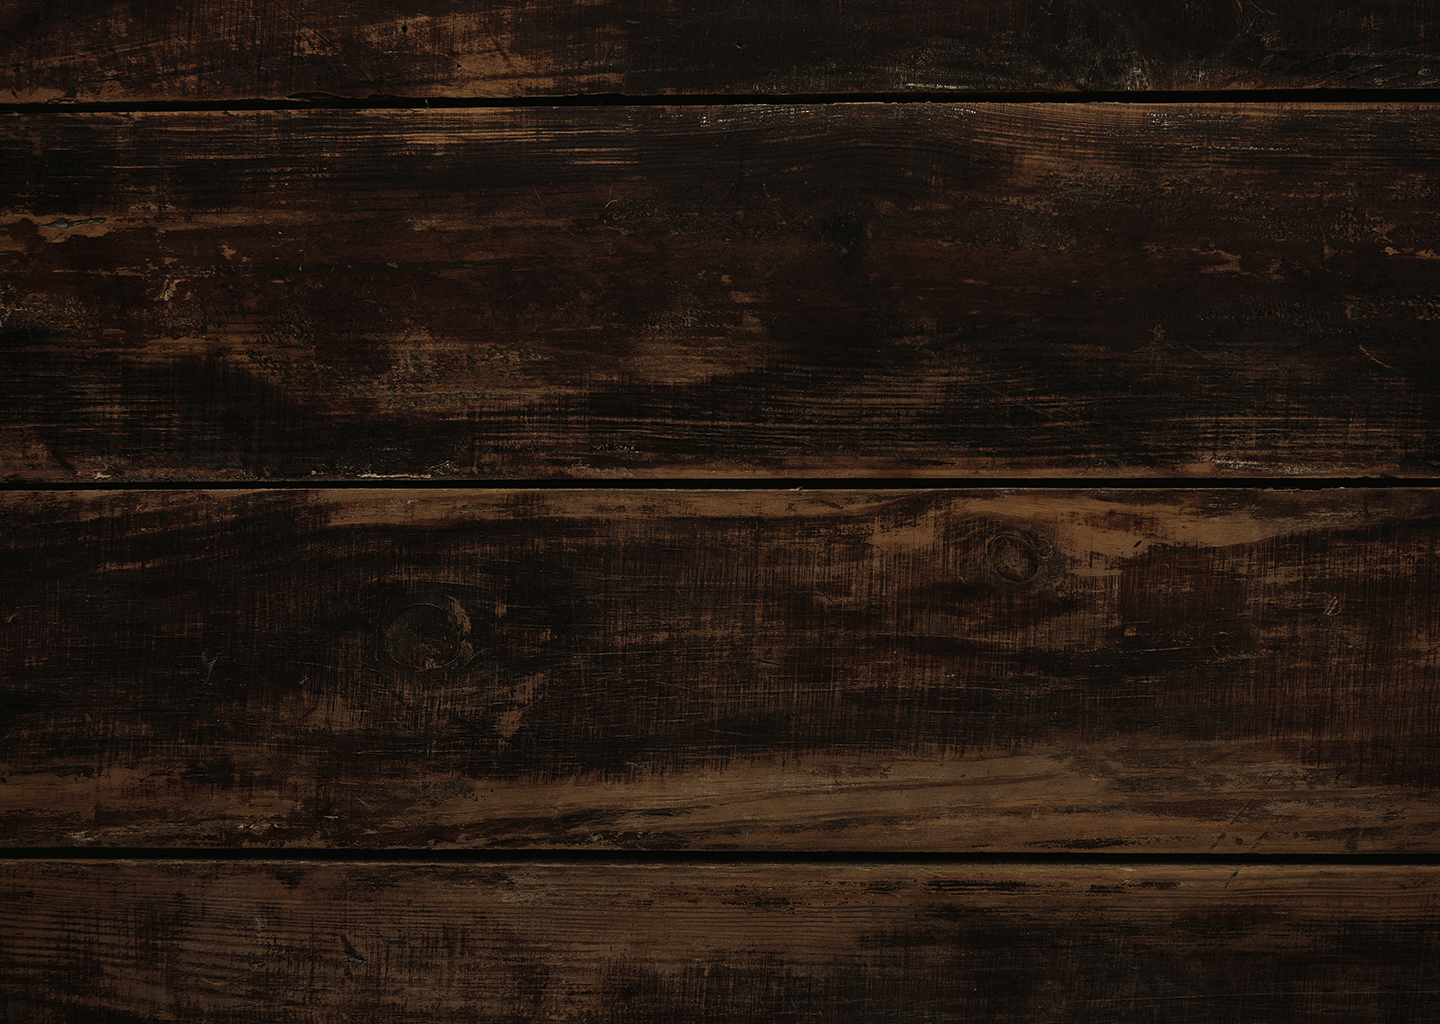
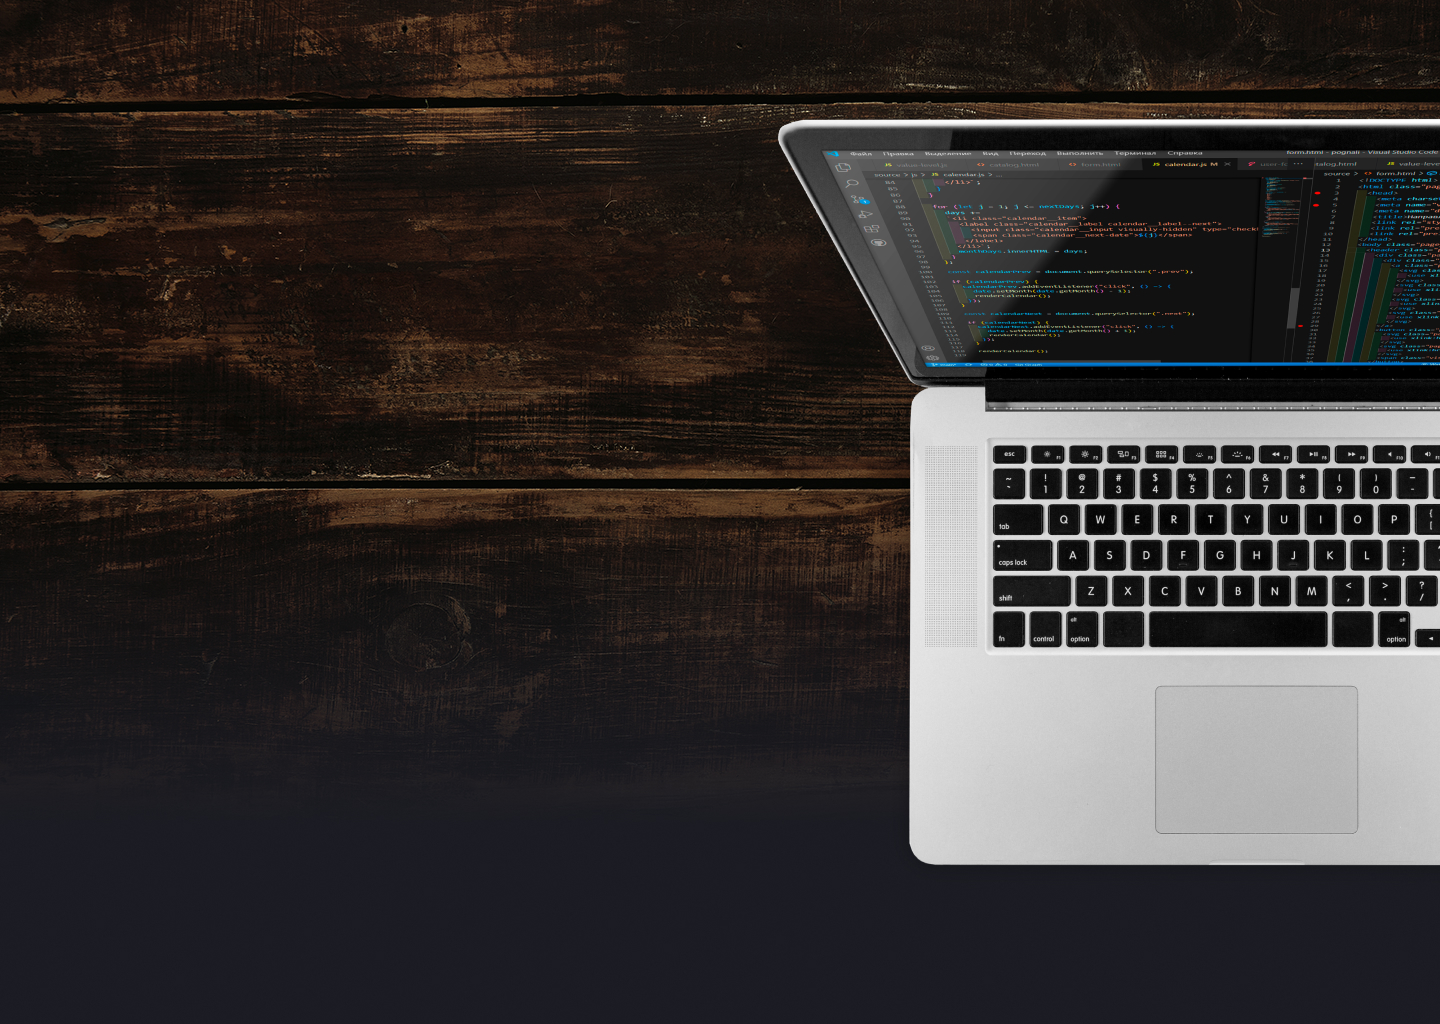
Adds new block about-me

diff --git a/source/index.html b/source/index.html
@@ -5,28 +5,28 @@
   <meta name="viewport" content="width=device-width, initial-scale=1.0">
   <title>Portfolio of Alyona Sytyakova</title>
   <link rel="stylesheet" href="css/style.min.css">
-  <link rel="preload" href="./fonts/robotoMono-regular.woff2" as="font" type="font/woff2" crossorigin>
-  <link rel="preload" href="./fonts/robotoMono-regular.woff" as="font" type="font/woff" crossorigin>
 </head>
 <body>
-  <header class="page-header container">
-    <img src="./img/avatar.png" width="70" height="70" alt="Аватарка">
-    <nav>
-      <ul>
-        <li>
-          <a href="#">Home</a>
-        </li>
-        <li>
-          <a href="">About me</a>
-        </li>
-        <li>
-          <a href="">Projects</a>
-        </li>
-        <li>
-          <a href="">Contact me</a>
-        </li>
-      </ul>
-    </nav>
+  <header class="page-header">
+    <div class="page-header__container container">
+      <img src="./img/avatar-logo.png" width="70" height="70" alt="Аватарка">
+      <nav>
+        <ul>
+          <li>
+            <a href="#">Home</a>
+          </li>
+          <li>
+            <a href="">About me</a>
+          </li>
+          <li>
+            <a href="">Projects</a>
+          </li>
+          <li>
+            <a href="">Contact me</a>
+          </li>
+        </ul>
+      </nav>
+    </div>
   </header>
   <main>
     <section class="promo">
@@ -34,10 +34,26 @@
         <p>Hi, my name is</p>
         <h1>Alyona Sytyakova</h1>
         <p class="promo__subtitle">I am Junior Front-End Developer</p>
-
-        <button type="button">My resume</button>
-        <button type="button">My certificates</button>
+        <button class="promo___resume button" type="button">My resume</button>
+        <button class="promo___certificates button" type="button">My certificates</button>
       </div>
+    </section>
+    <section class="about-me container">
+      <div class="about-me__content">
+        <h2>About me</h2>
+        <p>Hi, my name is Alyona Sytyakova and
+          I am junior front-end developer who is building
+          a&nbsp;new career from the thing I really enjoy.
+        </p>
+
+        <p>
+          I completed the "Frontend Developer" course
+          from <a href="https://htmlacademy.ru" target="_blank">htmlacademy</a>, then during the year
+          I honed my skills as a web developer, creating web
+          applications using HTML, CSS, JavaScript and all sorts of additional tools.
+        </p>
+      </div>
+      <img src="./img/avatar.png" width="328" height="328" alt="Аватарка">
     </section>
   </main>
 

diff --git a/source/sass/blocks/promo.scss b/source/sass/blocks/promo.scss
@@ -1,25 +1,22 @@
 .promo {
-  padding-top: 285px;
+  position: relative;
+  padding-top: 277px;
   height: 1160px;
-  background-image: url('../img/notebook.png'),
-  url('../img/background.jpg');
-  background-position: right 100px, 0 0;
-  background-size:  678px 813px, 100% 1160px;
+  background-image: url('../img/background.jpg');
+  background-position: 0 -30px;
+  background-size: cover;
   background-repeat: no-repeat;
-}
-.promo p,
-.promo h1 {
-  margin: 0;
 }
 
 .promo p:first-child {
-  margin-bottom: 30px;
+  margin: 0 0 30px;
   font-weight: 400;
   font-size: 24px;
   line-height: 32px;
 }
 
 .promo__subtitle {
+  margin: 0 0 109px;
   font-weight: 700;
   font-size: 32px;
   line-height: 42px;
@@ -27,13 +24,20 @@
 }
 
 .promo h1 {
-  margin-bottom: 15px;
+  margin: 0 0 12px;
   font-family: $secondary-font;
   font-weight: 700;
   font-size: 48px;
   line-height: 53px;
 }
 
-.promo button {
-  font-family: $main-font;
+.promo___resume {
+  margin-right: 39px;
+  color: $background-color;
+  background-image: linear-gradient(180deg, $accent-color 0%, $secondary-accent 100%);
+}
+
+.promo___certificates {
+  color: $accent-color;
+  border: 3px solid $accent-color;
 }

diff --git a/source/sass/global.scss b/source/sass/global.scss
@@ -23,6 +23,10 @@ body {
   box-sizing: inherit;
 }
 
+a {
+  color: inherit;
+}
+
 img {
   display: block;
   max-width: 100%;
@@ -32,4 +36,19 @@ img {
 .container {
   padding: 0 100px;
   margin: 0 auto;
+  max-width: $desktop-width;
+}
+
+button {
+  padding: 27px 30px;
+  width: 250px;
+  font-weight: 700;
+  font-size: 20px;
+  line-height: 26px;
+  font-family: $main-font;
+  border: 0;
+  border-radius: 10px;
+  text-align: center;
+  background-color: inherit;
+  cursor: pointer;
 }

diff --git a/source/sass/blocks/about-me.scss b/source/sass/blocks/about-me.scss
@@ -1,0 +1,24 @@
+.about-me {
+  display: grid;
+  grid-template-columns: 590px 330px;
+  justify-content: space-between;
+}
+
+.about-me h2 {
+  margin: 0 0 20px;
+  font-family: $secondary-font;
+  font-weight: 700;
+  font-size: 48px;
+  line-height: 53px;
+  color: $accent-color;
+}
+
+.about-me p {
+  font-size: 21px;
+  line-height: 29px;
+  color: $light-gray;
+}
+
+.about-me img {
+  border-radius: 50%;
+}

diff --git a/source/sass/blocks/page-header.scss b/source/sass/blocks/page-header.scss
@@ -1,11 +1,15 @@
 .page-header {
   position: absolute;
   top: 0;
+  width: 100%;
+  padding-top: 15px;
+  z-index: 1;
+}
+
+.page-header__container {
   display: flex;
   justify-content: space-between;
   align-items: center;
-  width: 100%;
-  padding-top: 15px;
 }
 
 .page-header img {

diff --git a/source/sass/variables.scss b/source/sass/variables.scss
@@ -9,4 +9,5 @@ $white-basic: #ffffff;
 $black-basic: #000000;
 $light-gray:#eeeeee;
 $accent-color: #f9d24a;
+$secondary-accent: #c19700;
 $background-color: #1b1c23;

diff --git a/source/sass/style.scss b/source/sass/style.scss
@@ -4,3 +4,4 @@
 
 @import "blocks/page-header";
 @import "blocks/promo";
+@import "blocks/about-me";
